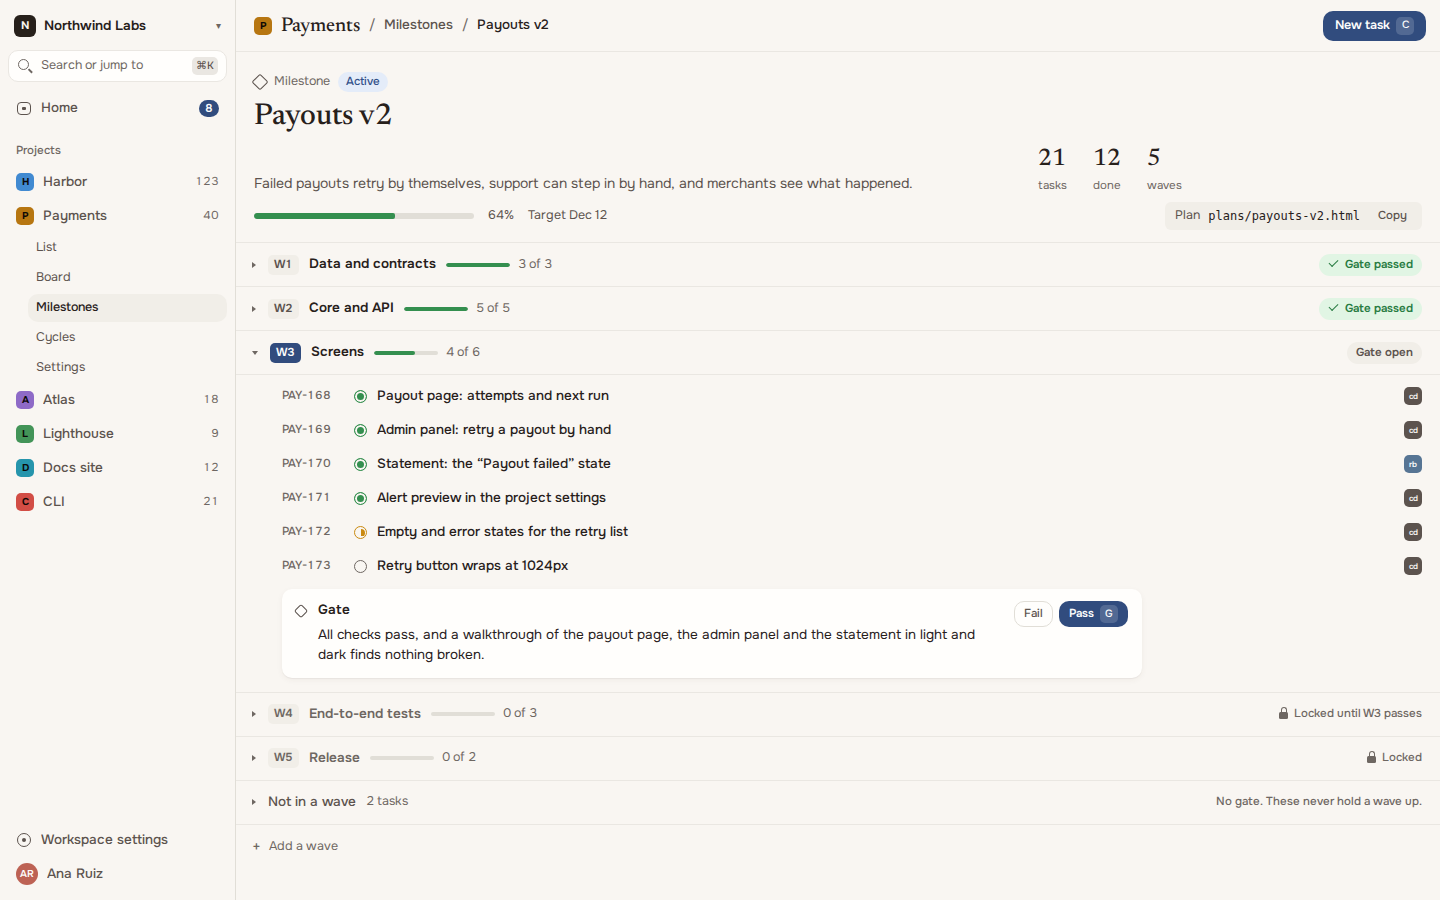
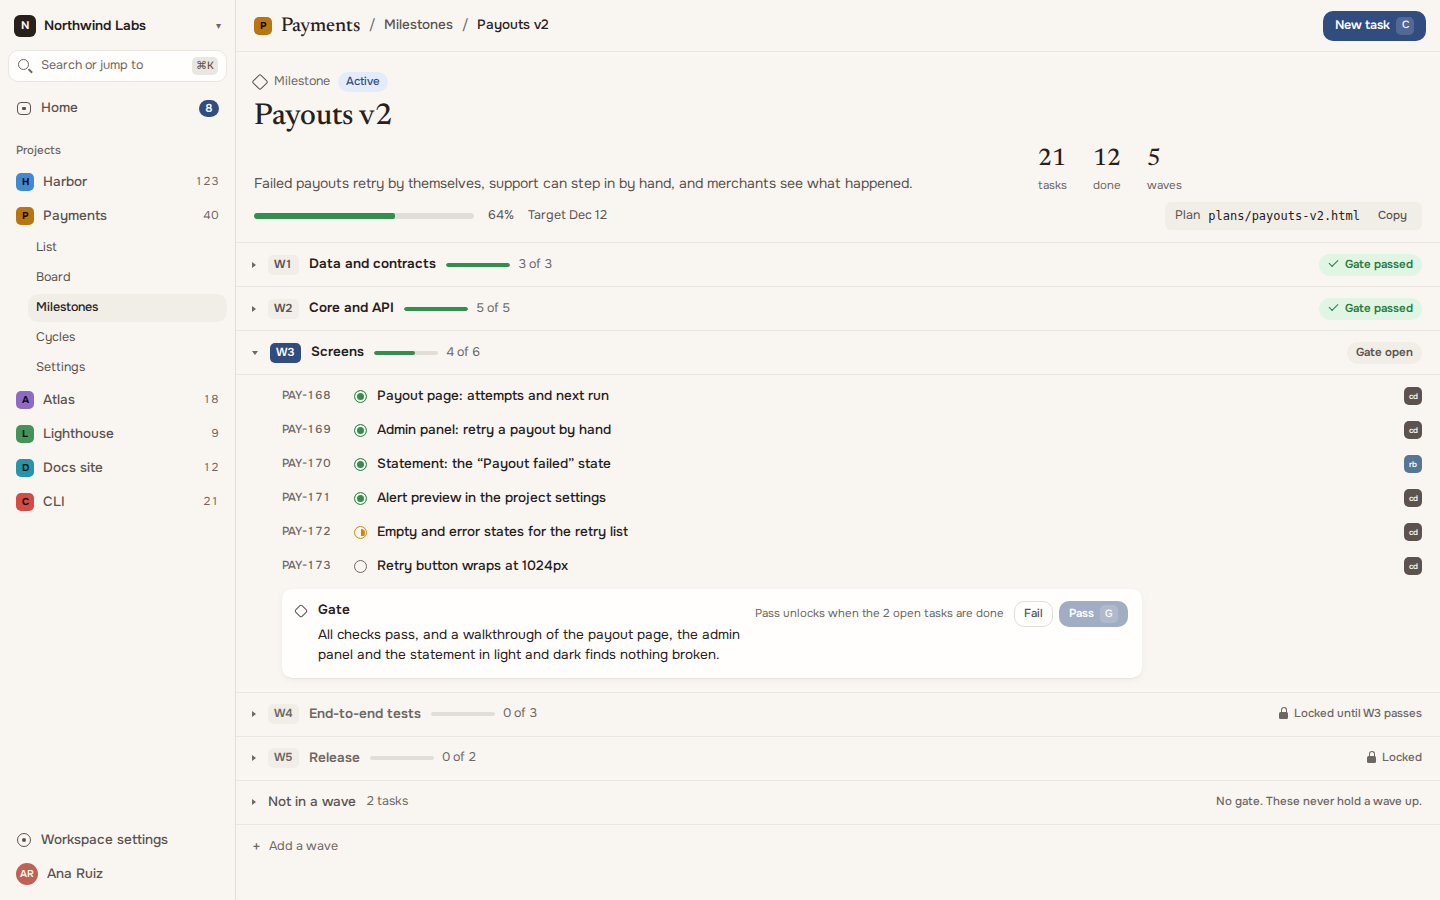
docs: apply the review answers to the M7 and M8 design
The check-again reason is required, and a gate passes only when every task in its wave is done or canceled. Eight frames, the brief and the notes are updated.

Changed region(s): [[0.5, 0.6533, 0.6875, 0.7156], [0.2188, 0.7156, 0.5, 0.7467], [0.7188, 0.6533, 0.7812, 0.7156]]

diff --git a/.agent/design/m6/source/m6/M8Plan.dc.html b/.agent/design/m6/source/m6/M8Plan.dc.html
@@ -109,13 +109,13 @@ body{margin:0}
 <sc-if value="{{ w.gHasNote }}" hint-placeholder-val="{{ false }}"><div class="t-n"><sc-for list="{{ w.gNote }}" as="p" hint-placeholder-count="1"><p>{{ p.t }}</p></sc-for></div></sc-if>
 <sc-if value="{{ w.gMore }}" hint-placeholder-val="{{ false }}"><div class="more-l" style="padding:0">Show the whole note</div></sc-if>
 </div>
-<sc-if value="{{ w.gActs }}" hint-placeholder-val="{{ false }}"><div class="acts"><span class="btn sm ghost">Fail</span><span class="{{ w.passCls }}">Pass<span class="kbd">G</span></span></div></sc-if>
+<sc-if value="{{ w.gActs }}" hint-placeholder-val="{{ false }}"><div class="acts" style="align-items:center"><sc-if value="{{ w.gWait }}" hint-placeholder-val="{{ false }}"><span class="muted" style="font-size:var(--fs-xs);margin-right:4px">{{ w.gWaitTxt }}</span></sc-if><span class="btn sm ghost">Fail</span><span class="{{ w.passCls }}">Pass<span class="kbd">G</span></span></div></sc-if>
 <sc-if value="{{ w.gRedo }}" hint-placeholder-val="{{ false }}"><div class="acts"><span class="btn sm ghost">Record again<span class="kbd">G</span></span></div></sc-if>
 <sc-if value="{{ w.gPop }}" hint-placeholder-val="{{ false }}">
 <div class="pop menu gate-pop">
 <div class="menu-h">Gate of W3 · Screens</div>
 <div style="padding:2px 6px 8px"><span class="seg" style="display:inline-flex"><span class="seg-i on">Passed</span><span class="seg-i">Failed</span></span></div>
-<div class="field"><span class="flabel">Note</span><span class="input focus"><span>Checks pass (2,611 tests). Walked the payout page, the admin panel and the statement in light and dark at 1440 and 1024.<span style="display:inline-block;width:1.5px;height:15px;background:var(--accent);vertical-align:-3px;margin-left:1px"></span></span></span><span class="help">The note stays with the gate. W4 unlocks as soon as this passes.</span></div>
+<div class="field"><span class="flabel">Note</span><span class="input focus"><span>All 6 tasks are done. Checks pass (2,611 tests). Walked the payout page, the admin panel and the statement in light and dark at 1440 and 1024.<span style="display:inline-block;width:1.5px;height:15px;background:var(--accent);vertical-align:-3px;margin-left:1px"></span></span></span><span class="help">The note stays with the gate. W4 unlocks as soon as this passes.</span></div>
 <div class="menu-foot"><span><span class="kbd">⌘↵</span>record</span><span><span class="kbd">Esc</span>cancel</span></div>
 </div>
 </sc-if>
@@ -182,13 +182,14 @@ class Component extends DCLogic {
       gateTxt: state === 'passed' ? 'Gate passed' : state === 'failed' ? 'Gate failed' : state === 'locked' ? (o.lockTxt || 'Locked') : 'Gate open',
       rows: o.rows || [], dropTop: !!o.dropTop, hasMore: !!o.more, moreTxt: o.more || '',
       hasGate: open && !o.noGate, gbCls: 'gatebox' + (state === 'failed' ? ' failed' : ''), gDesc: o.desc || '', gHasWho: !!o.who, gWho: o.who || '',
-      gHasNote: !!o.note, gNote: (o.note || []).map(P), gMore: !!o.noteMore, gActs: state === 'open' && open && !o.noActs, passCls: 'btn sm primary' + (o.pop ? ' hover' : ''), gRedo: state === 'failed' && open, gPop: !!o.pop }; };
+      gHasNote: !!o.note, gNote: (o.note || []).map(P), gMore: !!o.noteMore, gActs: state === 'open' && open && !o.noActs, passCls: 'btn sm primary' + (o.pop ? ' hover' : '') + (o.wait ? ' disabled' : ''), gWait: !!o.wait, gWaitTxt: o.wait || '', gRedo: state === 'failed' && open, gPop: !!o.pop }; };
     const D3 = 'All checks pass, and a walkthrough of the payout page, the admin panel and the statement in light and dark finds nothing broken.';
     let waves = [], foldPassed = false, showLoose = true, looseOpen = false, adding = false, canAdd = true;
     const w1 = mk('W1', 'Data and contracts', '3 of 3', 'p100', 'passed'), w2 = mk('W2', 'Core and API', '5 of 5', 'p100', 'passed');
     const w4l = mk('W4', 'End-to-end tests', '0 of 3', '', 'locked', { lockTxt: 'Locked until W3 passes' }), w5l = mk('W5', 'Release', '0 of 2', '', 'locked', { lockTxt: 'Locked' });
     if (s === 'waves' || s === 'waves1280' || s === 'gate') {
-      waves = [w1, w2, mk('W3', 'Screens', '4 of 6', 'p64', 'open', { open: true, cur: true, rows: W3(), desc: D3, pop: s === 'gate' }), w4l, w5l];
+      const all = s === 'gate';
+      waves = [w1, w2, mk('W3', 'Screens', all ? '6 of 6' : '4 of 6', all ? 'p100' : 'p64', 'open', { open: true, cur: true, rows: all ? W3().map((r) => ({ ...r, st: 'st done' })) : W3(), desc: D3, pop: all, wait: all ? '' : 'Pass unlocks when the 2 open tasks are done' }), w4l, w5l];
     } else if (s === 'failed') {
       waves = [w1, w2, mk('W3', 'Screens', '5 of 6', 'p80', 'failed', { open: true, cur: true, rows: W3().slice(4), more: '4 done tasks · Show', desc: D3, who: 'claude-dev for Ana, 20 min ago',
         note: ['Checks pass. The walkthrough found the retry button wrapping onto two lines on the payout page at 1024px, in both themes.', 'Logged as PAY-173 in this wave. Everything else looked right.'] }), w4l, w5l];

diff --git a/.agent/design/m6/source/m6/M7Task.dc.html b/.agent/design/m6/source/m6/M7Task.dc.html
@@ -20,7 +20,7 @@ body{margin:0}a{color:inherit}a:hover{color:inherit}
 .act-tg{display:flex;gap:2px;margin-left:auto}
 .act-tg .tab{height:24px;font-size:var(--fs-xs);padding:0 8px}
 .props .bar{max-width:64px;min-width:36px}
-.chk-pop{right:18px;top:238px;width:262px}
+.chk-pop{right:18px;top:226px;width:262px}
 .chk-pop .field{padding:2px 6px 8px}
 .chk-pop .field .input{height:auto;min-height:36px;padding:7px 11px;white-space:normal;line-height:1.4}
 </style>
@@ -133,7 +133,8 @@ body{margin:0}a{color:inherit}a:hover{color:inherit}
 <div class="cal-top"><span>December 2026</span><span class="spacer"></span><span class="muted">‹</span><span class="muted">›</span></div>
 <div class="cal"><sc-for list="{{ calH }}" as="d" hint-placeholder-count="7"><span class="cal-h">{{ d.t }}</span></sc-for><sc-for list="{{ cal }}" as="d" hint-placeholder-count="35"><span class="{{ d.cls }}">{{ d.t }}</span></sc-for></div>
 <div class="menu-sep"></div>
-<div class="field"><span class="flabel">Why wait</span><span class="input focus"><span>The bank issues the new certificate on Dec 1<span style="display:inline-block;width:1.5px;height:15px;background:var(--accent);vertical-align:-3px;margin-left:1px"></span></span></span></div>
+<div class="field"><span class="flabel">Why wait <span style="color:var(--text-3);font-weight:400">· required</span></span><span class="input focus"><span>The bank issues the new certificate on Dec 1<span style="display:inline-block;width:1.5px;height:15px;background:var(--accent);vertical-align:-3px;margin-left:1px"></span></span></span></div>
+<div class="help" style="padding:0 6px 6px">It is what you read when the task comes back.</div>
 <div class="menu-foot"><span><span class="kbd">↵</span>set</span><span><span class="kbd">Esc</span>cancel</span><span class="spacer"></span><span class="link">Clear</span></div>
 </div>
 </sc-if>

diff --git a/.agent/design/m6/brief.md b/.agent/design/m6/brief.md
@@ -110,7 +110,7 @@ Finished tasks pile up. A project can archive Done and Canceled tasks a set numb
 
 ### M7: check-again date
 
-Some tasks wait on the outside world: a vendor reply, a certificate that renews next month, a metric that needs two weeks of data. A task can hold a **check-again day** and a short reason ("Vendor promised a fix in their December release").
+Some tasks wait on the outside world: a vendor reply, a certificate that renews next month, a metric that needs two weeks of data. A task can hold a **check-again day** and a short reason ("Vendor promised a fix in their December release"). The reason is required: it is what the person reads when the task comes back.
 
 - This is different from a due date. A due date that passes is late. A check-again day that arrives only means "look again", so it must never read as overdue or use the overdue colour.
 - Until the day comes, the task shows a quiet "Waiting until Dec 3" chip, and people may want to hide waiting tasks from a board.
@@ -125,6 +125,7 @@ People plan a milestone as a document, then hand it to an agent that works throu
 - **Plan link**: a milestone can hold one link or file path to its plan. The app may not be able to open it, so show it as text with a copy button, and as a link when it is a web address.
 - **Wave**: an ordered group of tasks that can be worked on at the same time. Waves have a short name ("W1 · Data and contracts") and their tasks.
 - **Gate**: the check at the end of a wave. It has a description ("All checks pass and the walkthrough is done"), a state (Open, Passed, Failed) and a note, with who recorded the result and when ("claude-dev for Ana, 2 hours ago").
+- A gate can be passed only when every task in its wave is done or canceled. A failed result can be recorded at any time, and it reopens no task.
 - A wave is **locked** until the gate before it has passed. A person who starts a task in a locked wave gets a warning and can continue. Agents are refused by the server.
 - A failed gate stops the plan and must be the most visible thing on the page.
 - The milestone page shows the waves in order with progress, the current wave open and earlier ones collapsed. A person can add, rename, reorder and remove waves, move tasks between waves (drag, and by keyboard), set a gate's description, and record a gate result with a note.

diff --git a/.agent/design/m6/notes.md b/.agent/design/m6/notes.md
@@ -70,11 +70,11 @@ The M6 frames were approved as designed, with these calls confirmed:
 14. **Waiting tasks are dimmed on a board by default**, and "Waiting tasks" in Display options has three values: Shown, Shown dimmed, Hidden. Hidden columns say how many they hide. A task whose day has come is never dimmed or hidden.
 15. **"Check again" on Home is under Mine only**: it is a note to yourself.
 
-## Open questions for the product owner
+## Answered by the product owner (2026-11-25)
 
-1. **Merged with open criteria** (call 4): a Home group of its own, or a pill inside "Needs review"?
-2. **Waiting tasks dimmed by default** (call 14): or shown as normal?
-3. **The check-again reason is optional in the picker.** Should it be required?
+1. **Merged with open criteria is a Home group of its own**, as designed.
+2. **Waiting tasks are dimmed by default**, as designed.
+3. **The check-again reason is required.** The picker marks the field and says why (frames 095 and 098 were updated).
 
 # M8
 
@@ -95,11 +95,11 @@ The M6 frames were approved as designed, with these calls confirmed:
 8. **The milestone list shows the wave status under the milestone's name**: "Wave 3 of 5 · gate open", "Gate failed in wave 8 of 12" (with a mark), "All 4 gates passed".
 9. **Moving a task between waves works by drag and by Alt+↑ / Alt+↓**, with a hint at the bottom while it moves.
 
-## Open questions for the product owner
+## Answered by the product owner (2026-11-25)
 
-1. **Can a person pass a gate while tasks in its wave are still open?** The frames allow it (Pass is enabled with 4 of 6 done).
-2. **Does recording a failed gate reopen anything?** The frames only stop the next wave; tasks keep their status.
-3. **Folding passed waves** (call 7) starts when a milestone has more than six waves. Right threshold?
+1. **A gate can be passed only when every task in its wave is done or canceled.** Until then Pass is disabled and says what it waits for; Fail can be recorded at any time (frames 103 to 107 and 110 were updated).
+2. **A failed gate reopens no task.** It keeps the next wave locked, and the note says what to fix; the fix is logged as a new task.
+3. **Passed waves fold into one line when a milestone has more than six waves.**
 
 # For the plans
 

diff --git a/.agent/design/m6/README.md b/.agent/design/m6/README.md
@@ -1,6 +1,6 @@
 # M6 to M8 design: work record, pull requests, archiving, check-again dates, waves and gates
 
-One design pass for three releases, in the Margin direction from M5. All three are designed; M6 was reviewed and approved on 2026-11-25.
+One design pass for three releases, in the Margin direction from M5. All three are designed, reviewed and approved (2026-11-25).
 
 - **Canvas** (the M5 canvas, three new pages):
   - M6: https://claude.ai/artifact/Qf4nELj16FMAKRzSWei9z5#page-m6-M6---Work-record
